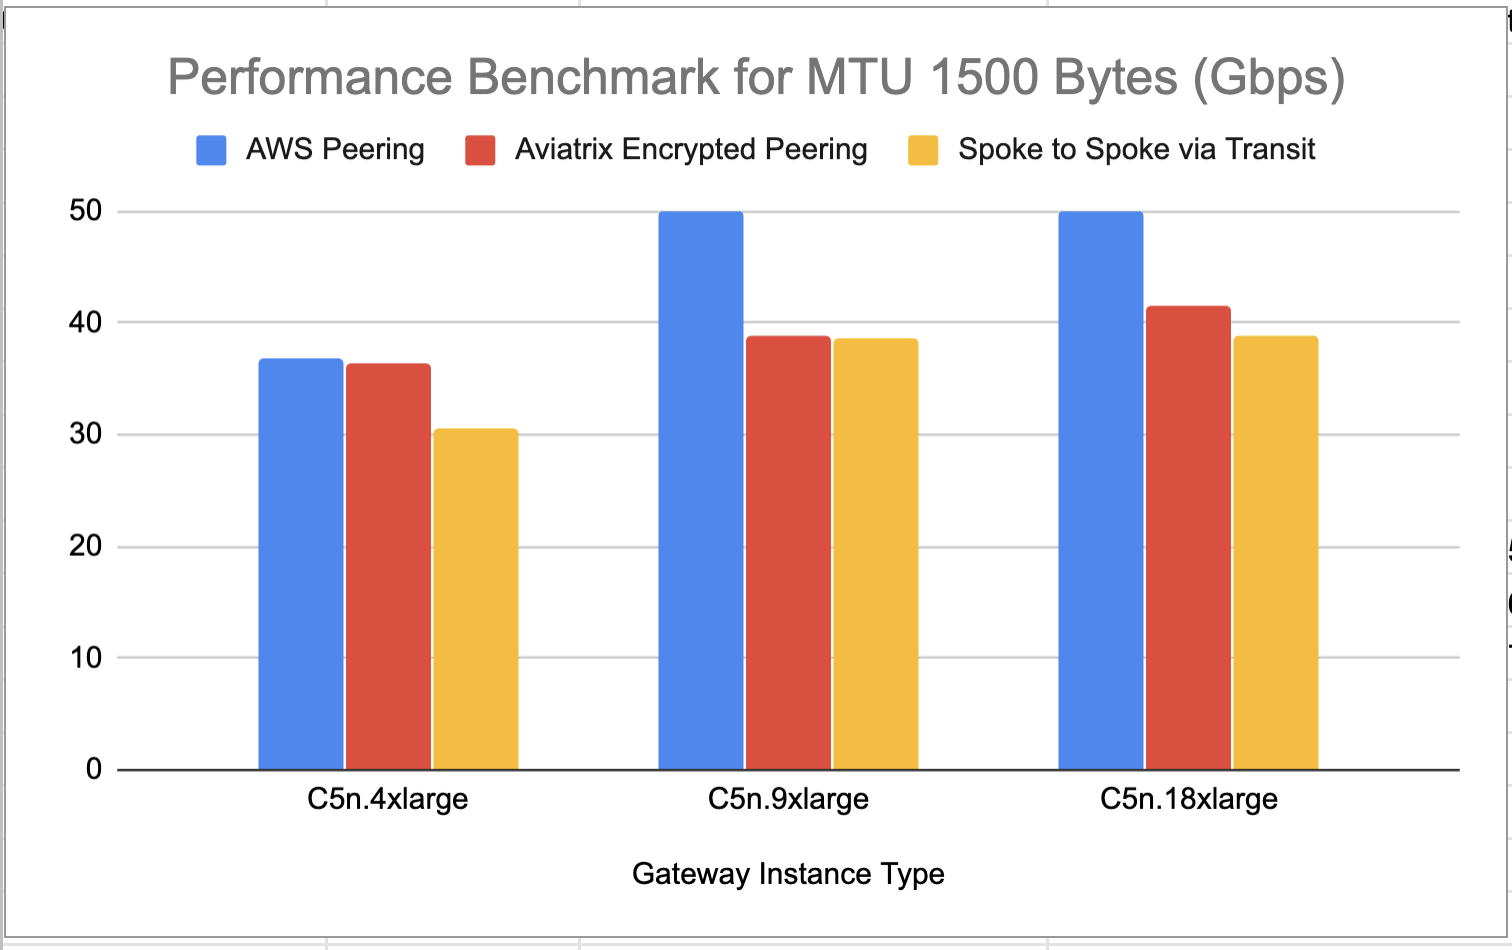
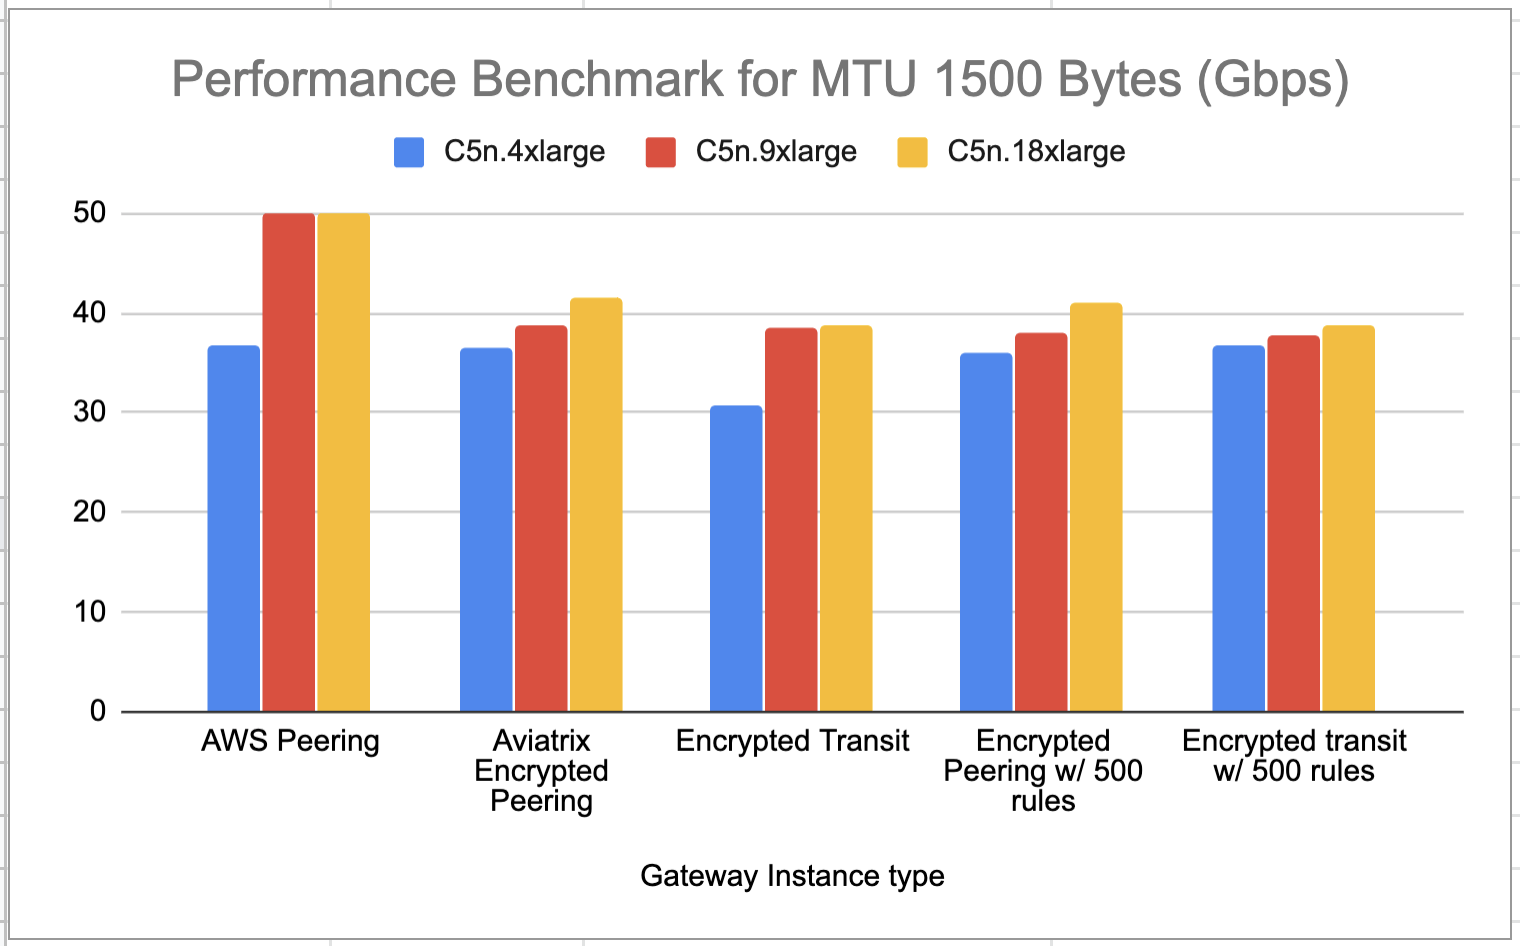
update perf doc

diff --git a/HowTos/insane_mode_perf.rst b/HowTos/insane_mode_perf.rst
@@ -14,8 +14,8 @@ For more information on Aviatrix Insane Mode, check out `this link. <https://doc
 Test Result Summary
 --------------------------
 
-Aviatrix High Performance Encryption (HPE), also known as ActiveMesh Insane Mode, achieves line rate performance with encryption in AWS when Jumbo frames are
-deployed.
+Aviatrix High Performance Encryption (HPE), also known as ActiveMesh Insane Mode, achieves line rate performance with encryption in AWS when 
+Jumbo frames are deployed. Adding 500 stateful firewall rules have little impact to the performance. 
 
 Insane Mode Performance Test Topologies
 ---------------------------------------------------
